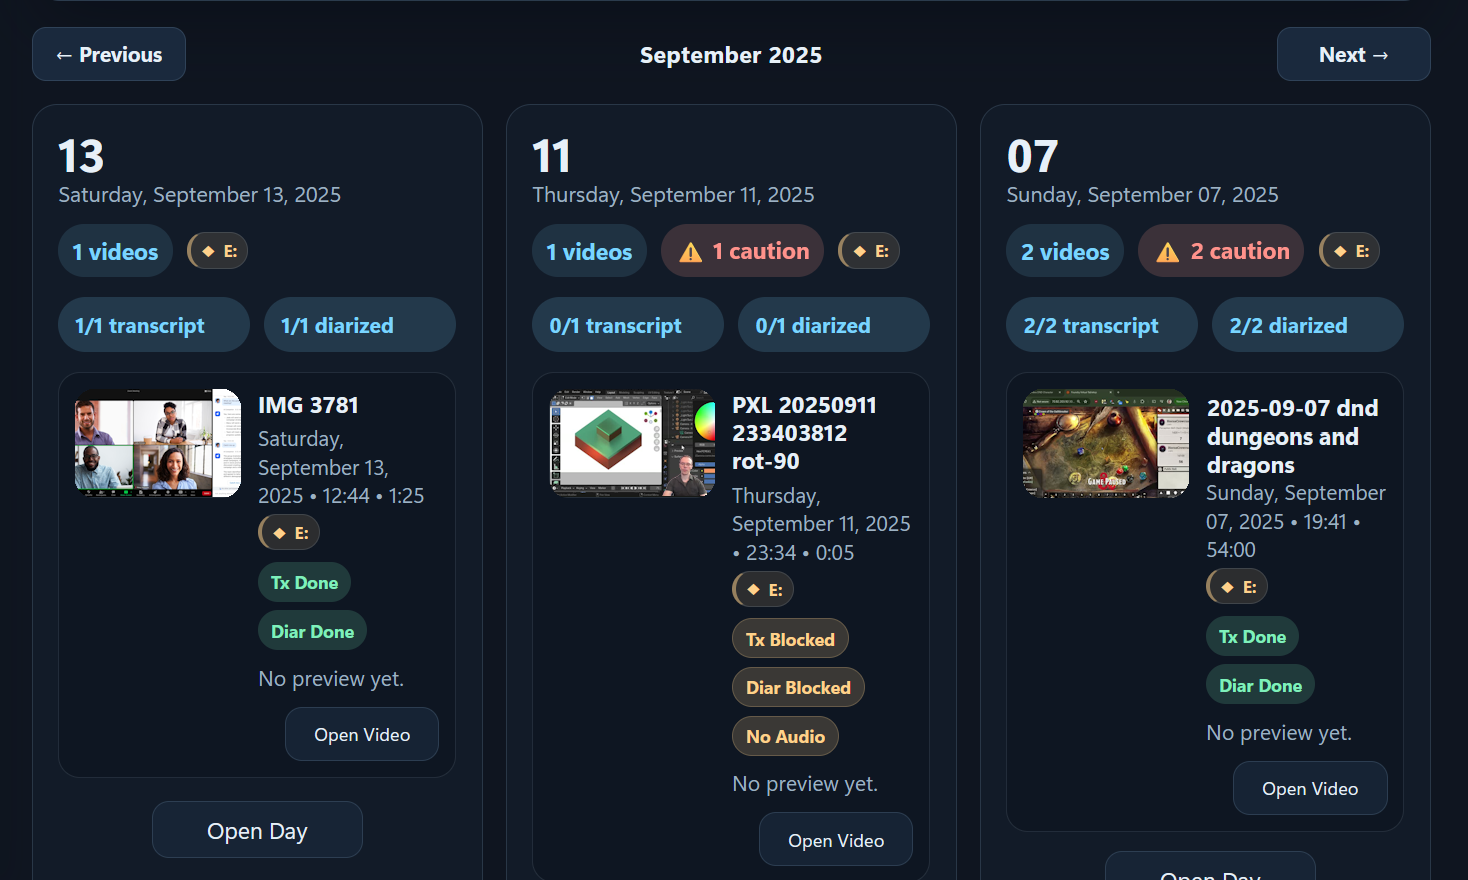
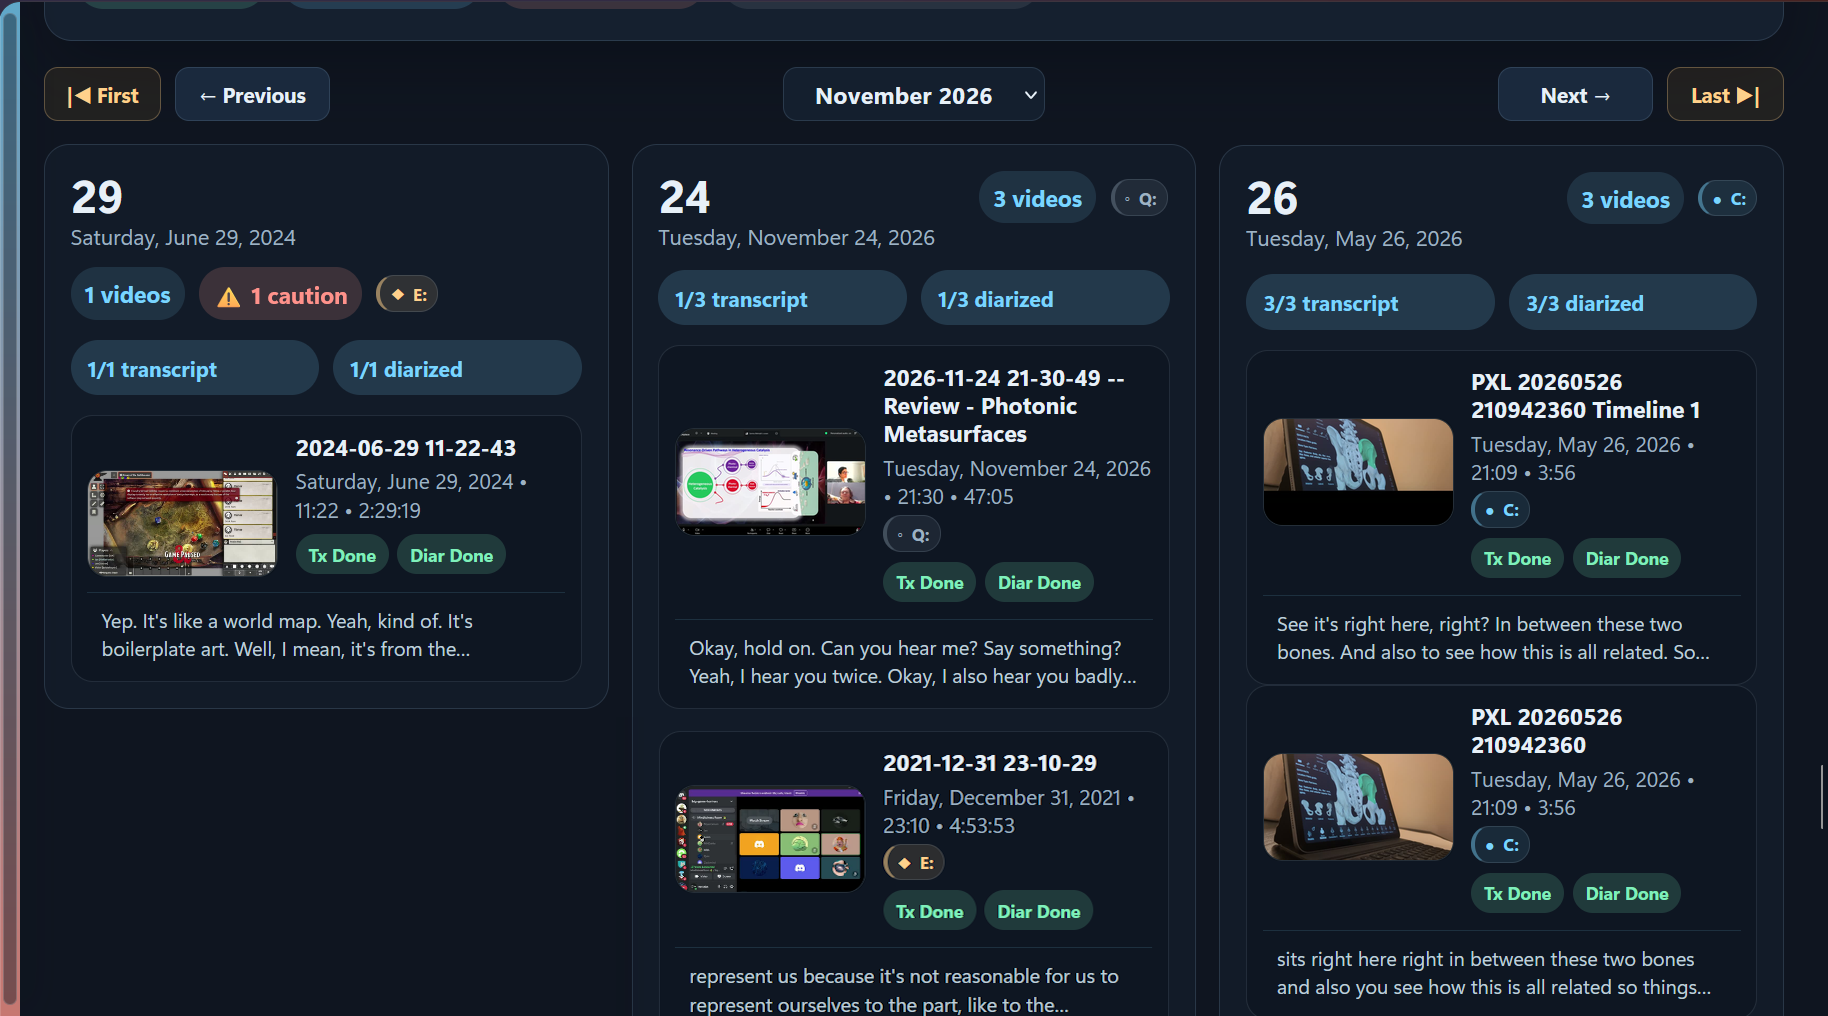
docs: refresh calendar inventory capture

diff --git a/README.md b/README.md
@@ -51,7 +51,7 @@ Configured local roots expose their distinct roles: incoming source, tracked wor
 
 ### Calendar-first inventory
 
-![Sanitized calendar inventory capture](docs/assets/img/portfolio/calendar-inventory.png)
+![Calendar-first inventory with source cues, transcript coverage, thumbnails, and preview excerpts](docs/assets/img/portfolio/calendar-inventory.png)
 
 The daily intake view combines source-origin cues, thumbnail affordances, duration, transcript/diarization coverage, and direct drill-down into one compact inventory surface.
 
